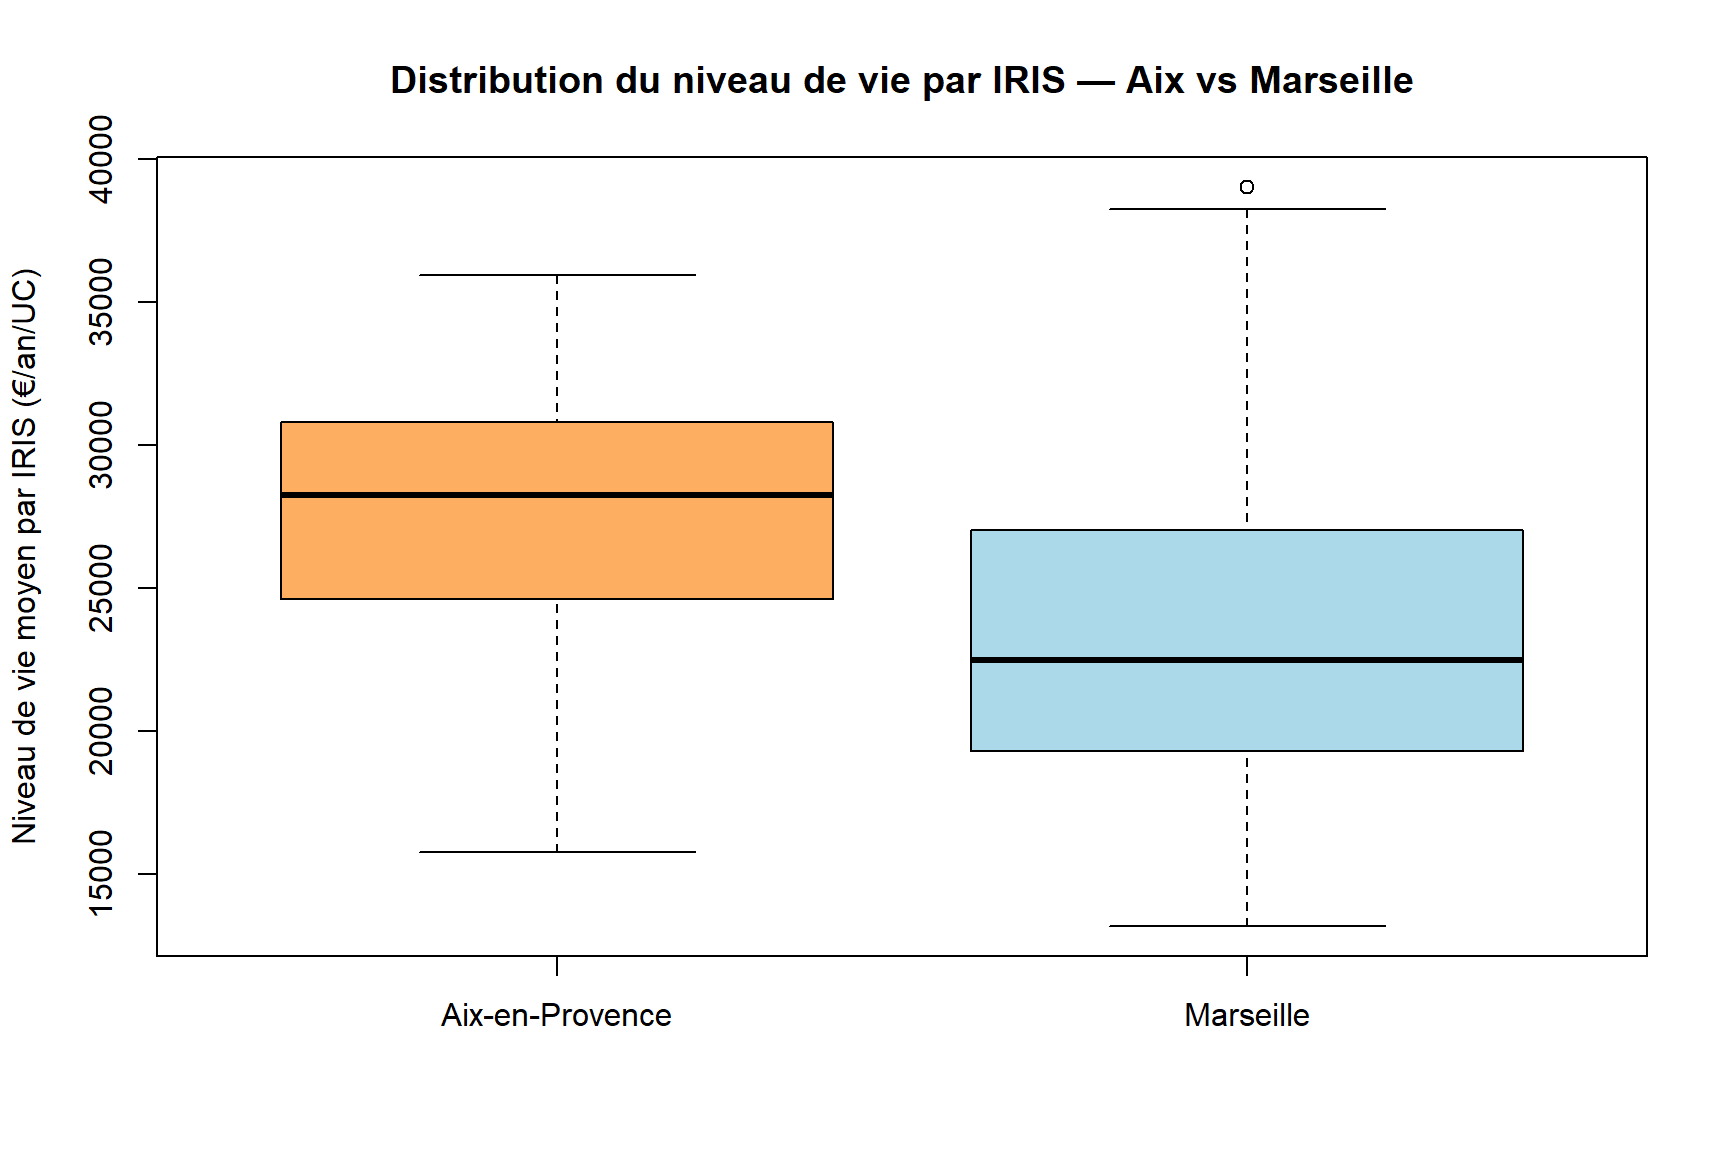
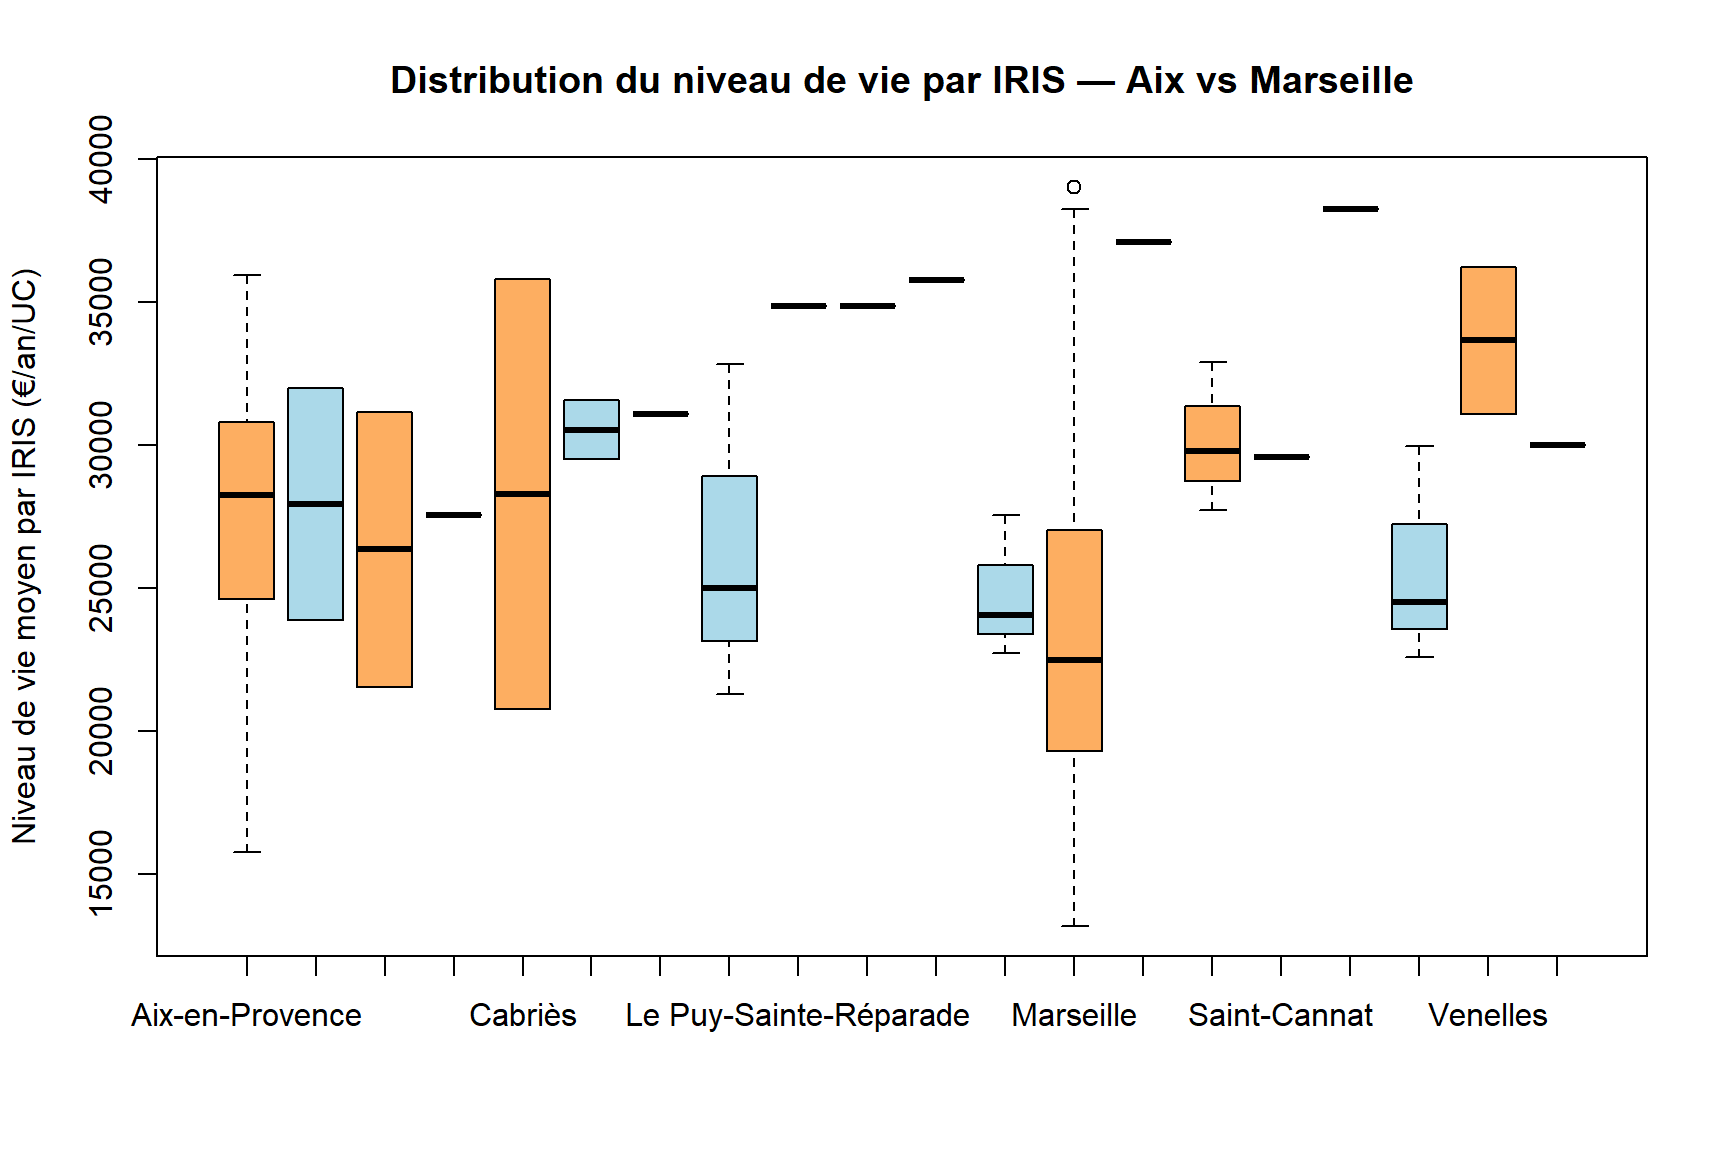
ajout carte interactive sur la page jointure

diff --git a/docs/site_libs/Niveau_de_vie_moyen_par_IRIS____an_UC_-CSS-0.0.1/Niveau_de_vie_moyen_par_IRIS____an_UC__home-button.css b/docs/site_libs/Niveau_de_vie_moyen_par_IRIS____an_UC_-CSS-0.0.1/Niveau_de_vie_moyen_par_IRIS____an_UC__home-button.css
@@ -1,0 +1,3 @@
+.leaflet-bar button {background-color:#ffffff95;border:none;width:100%;height:20px;line-height:15px;font-size:85%;text-align:center;text-decoration:none;color:black;cursor:pointer;overflow-x:visible;overflow-y:hidden;opacity:0.25;background-position:50% 50%;background-repeat:no-repeat;display:inline-block} 
+
+ .leaflet-bar button:hover {background-color:#00ffff;text-decoration:underline;opacity:0.9}